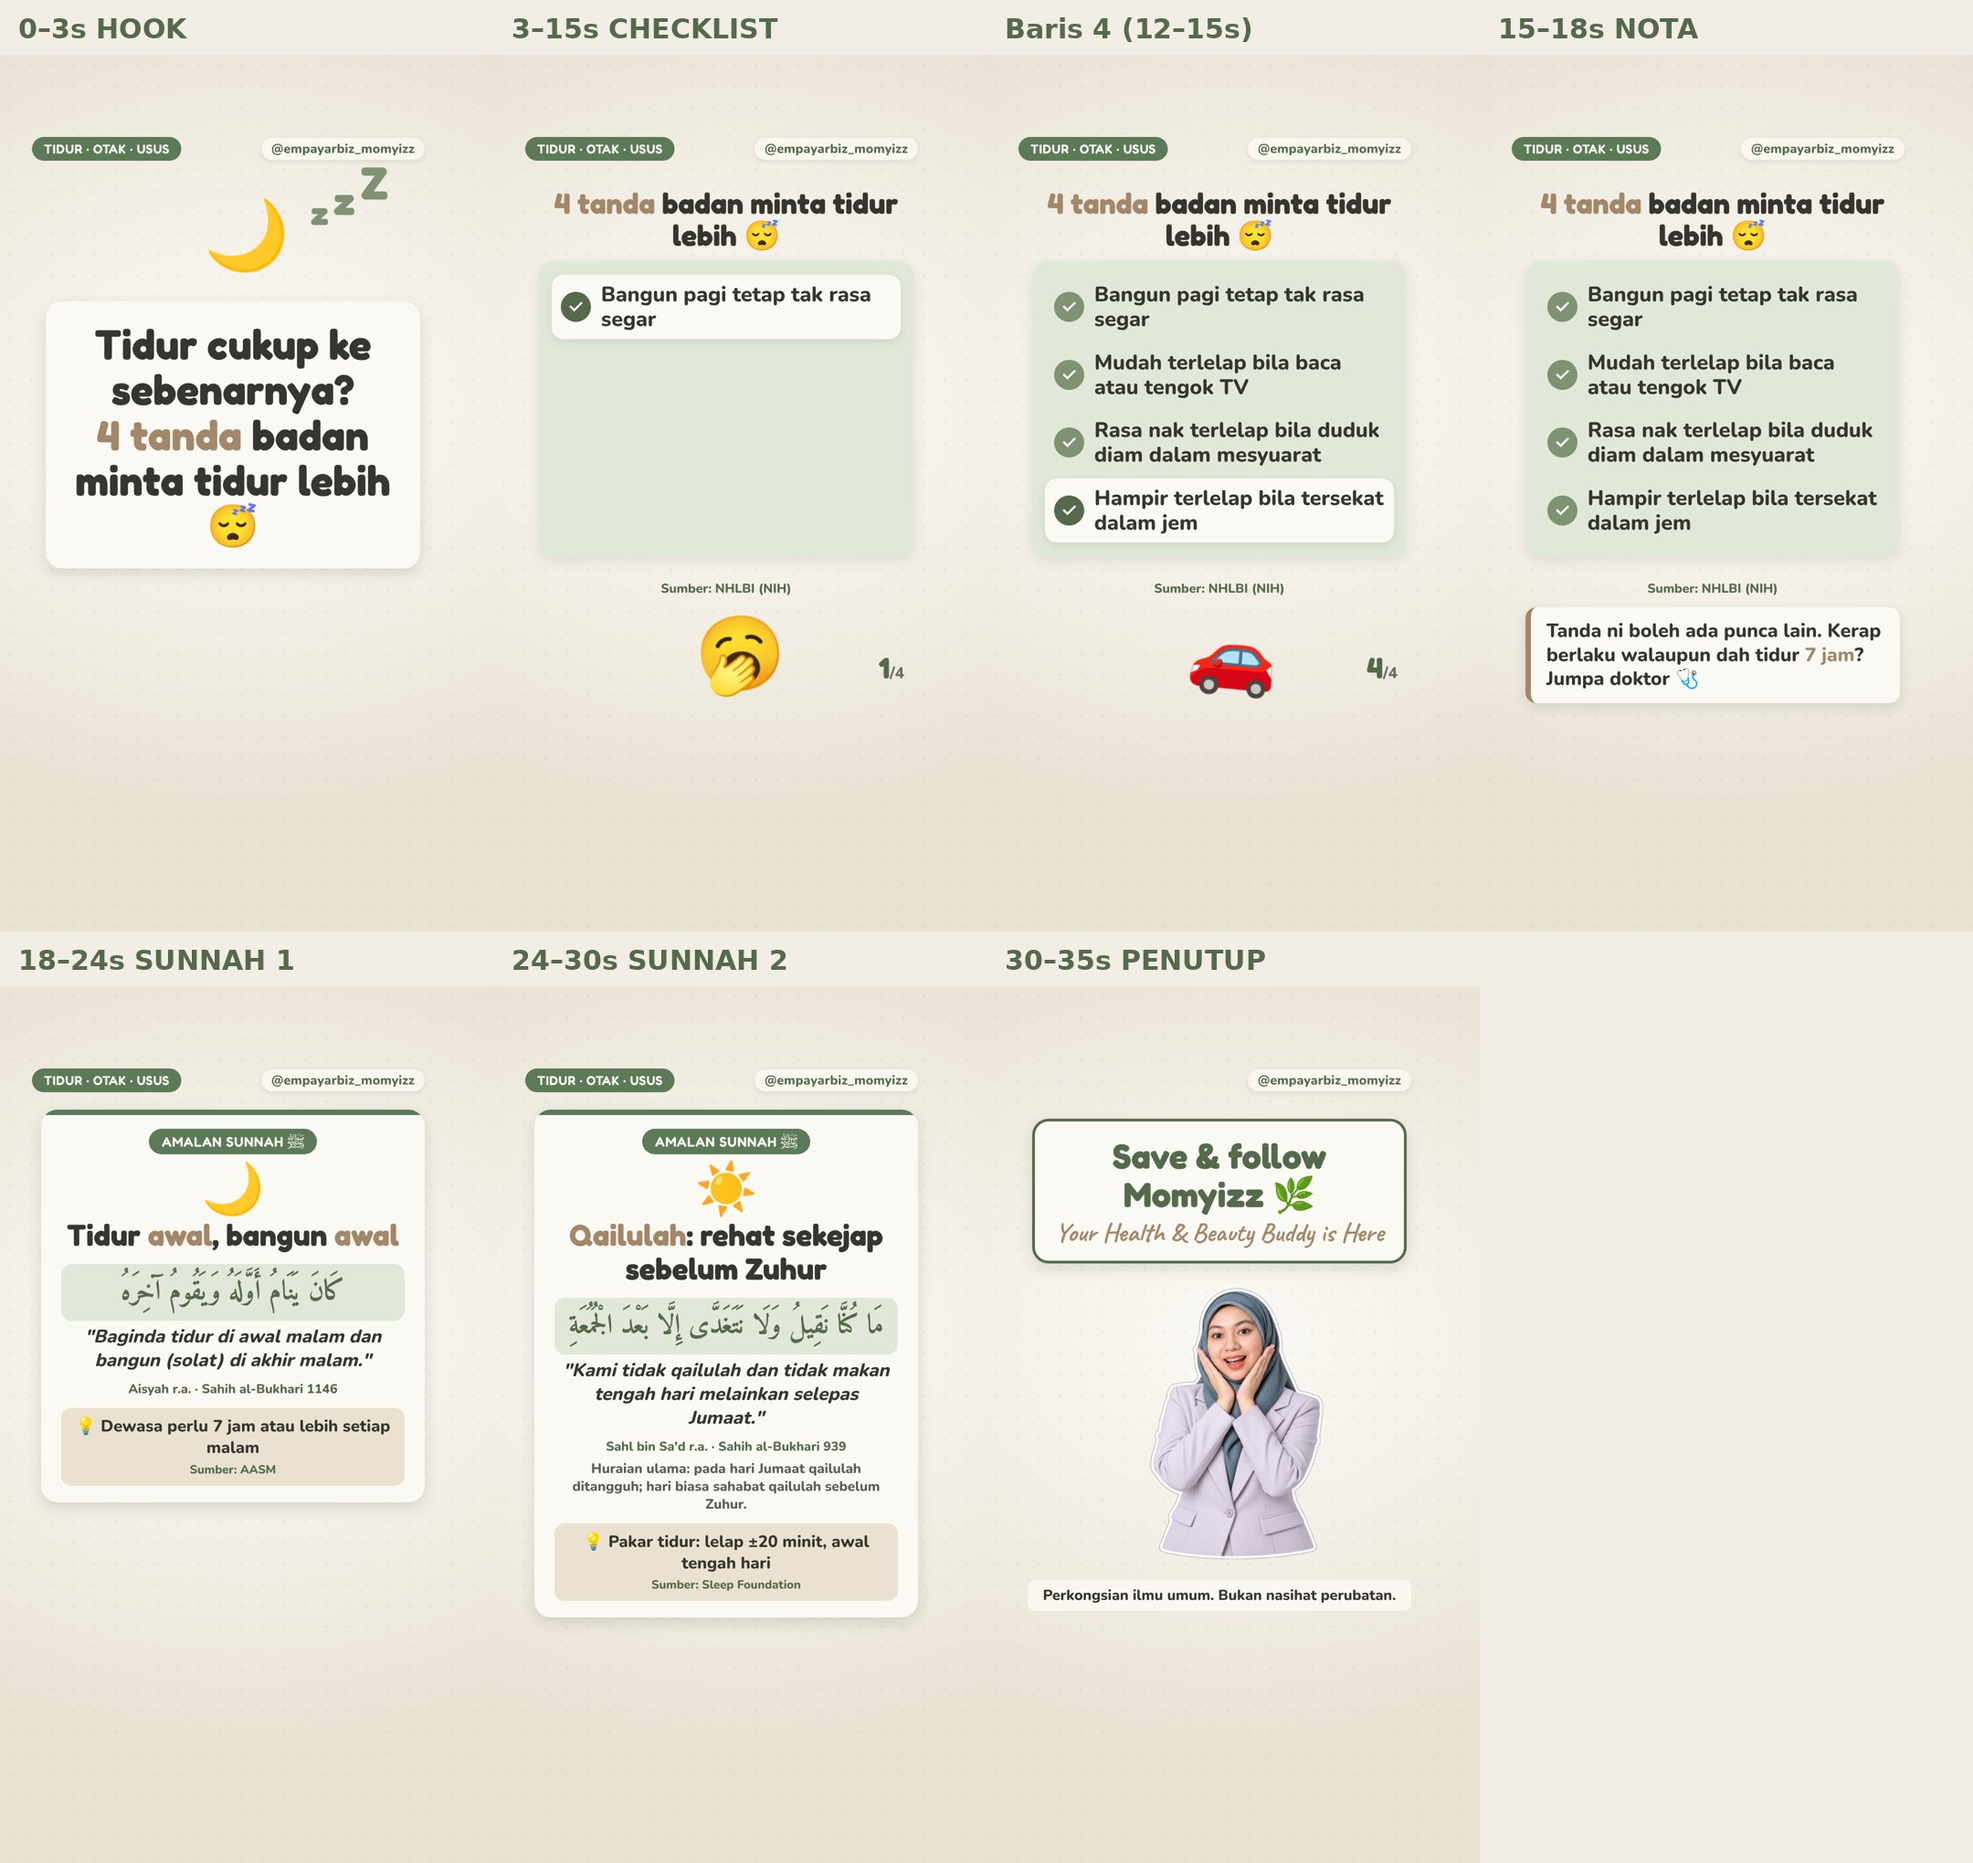
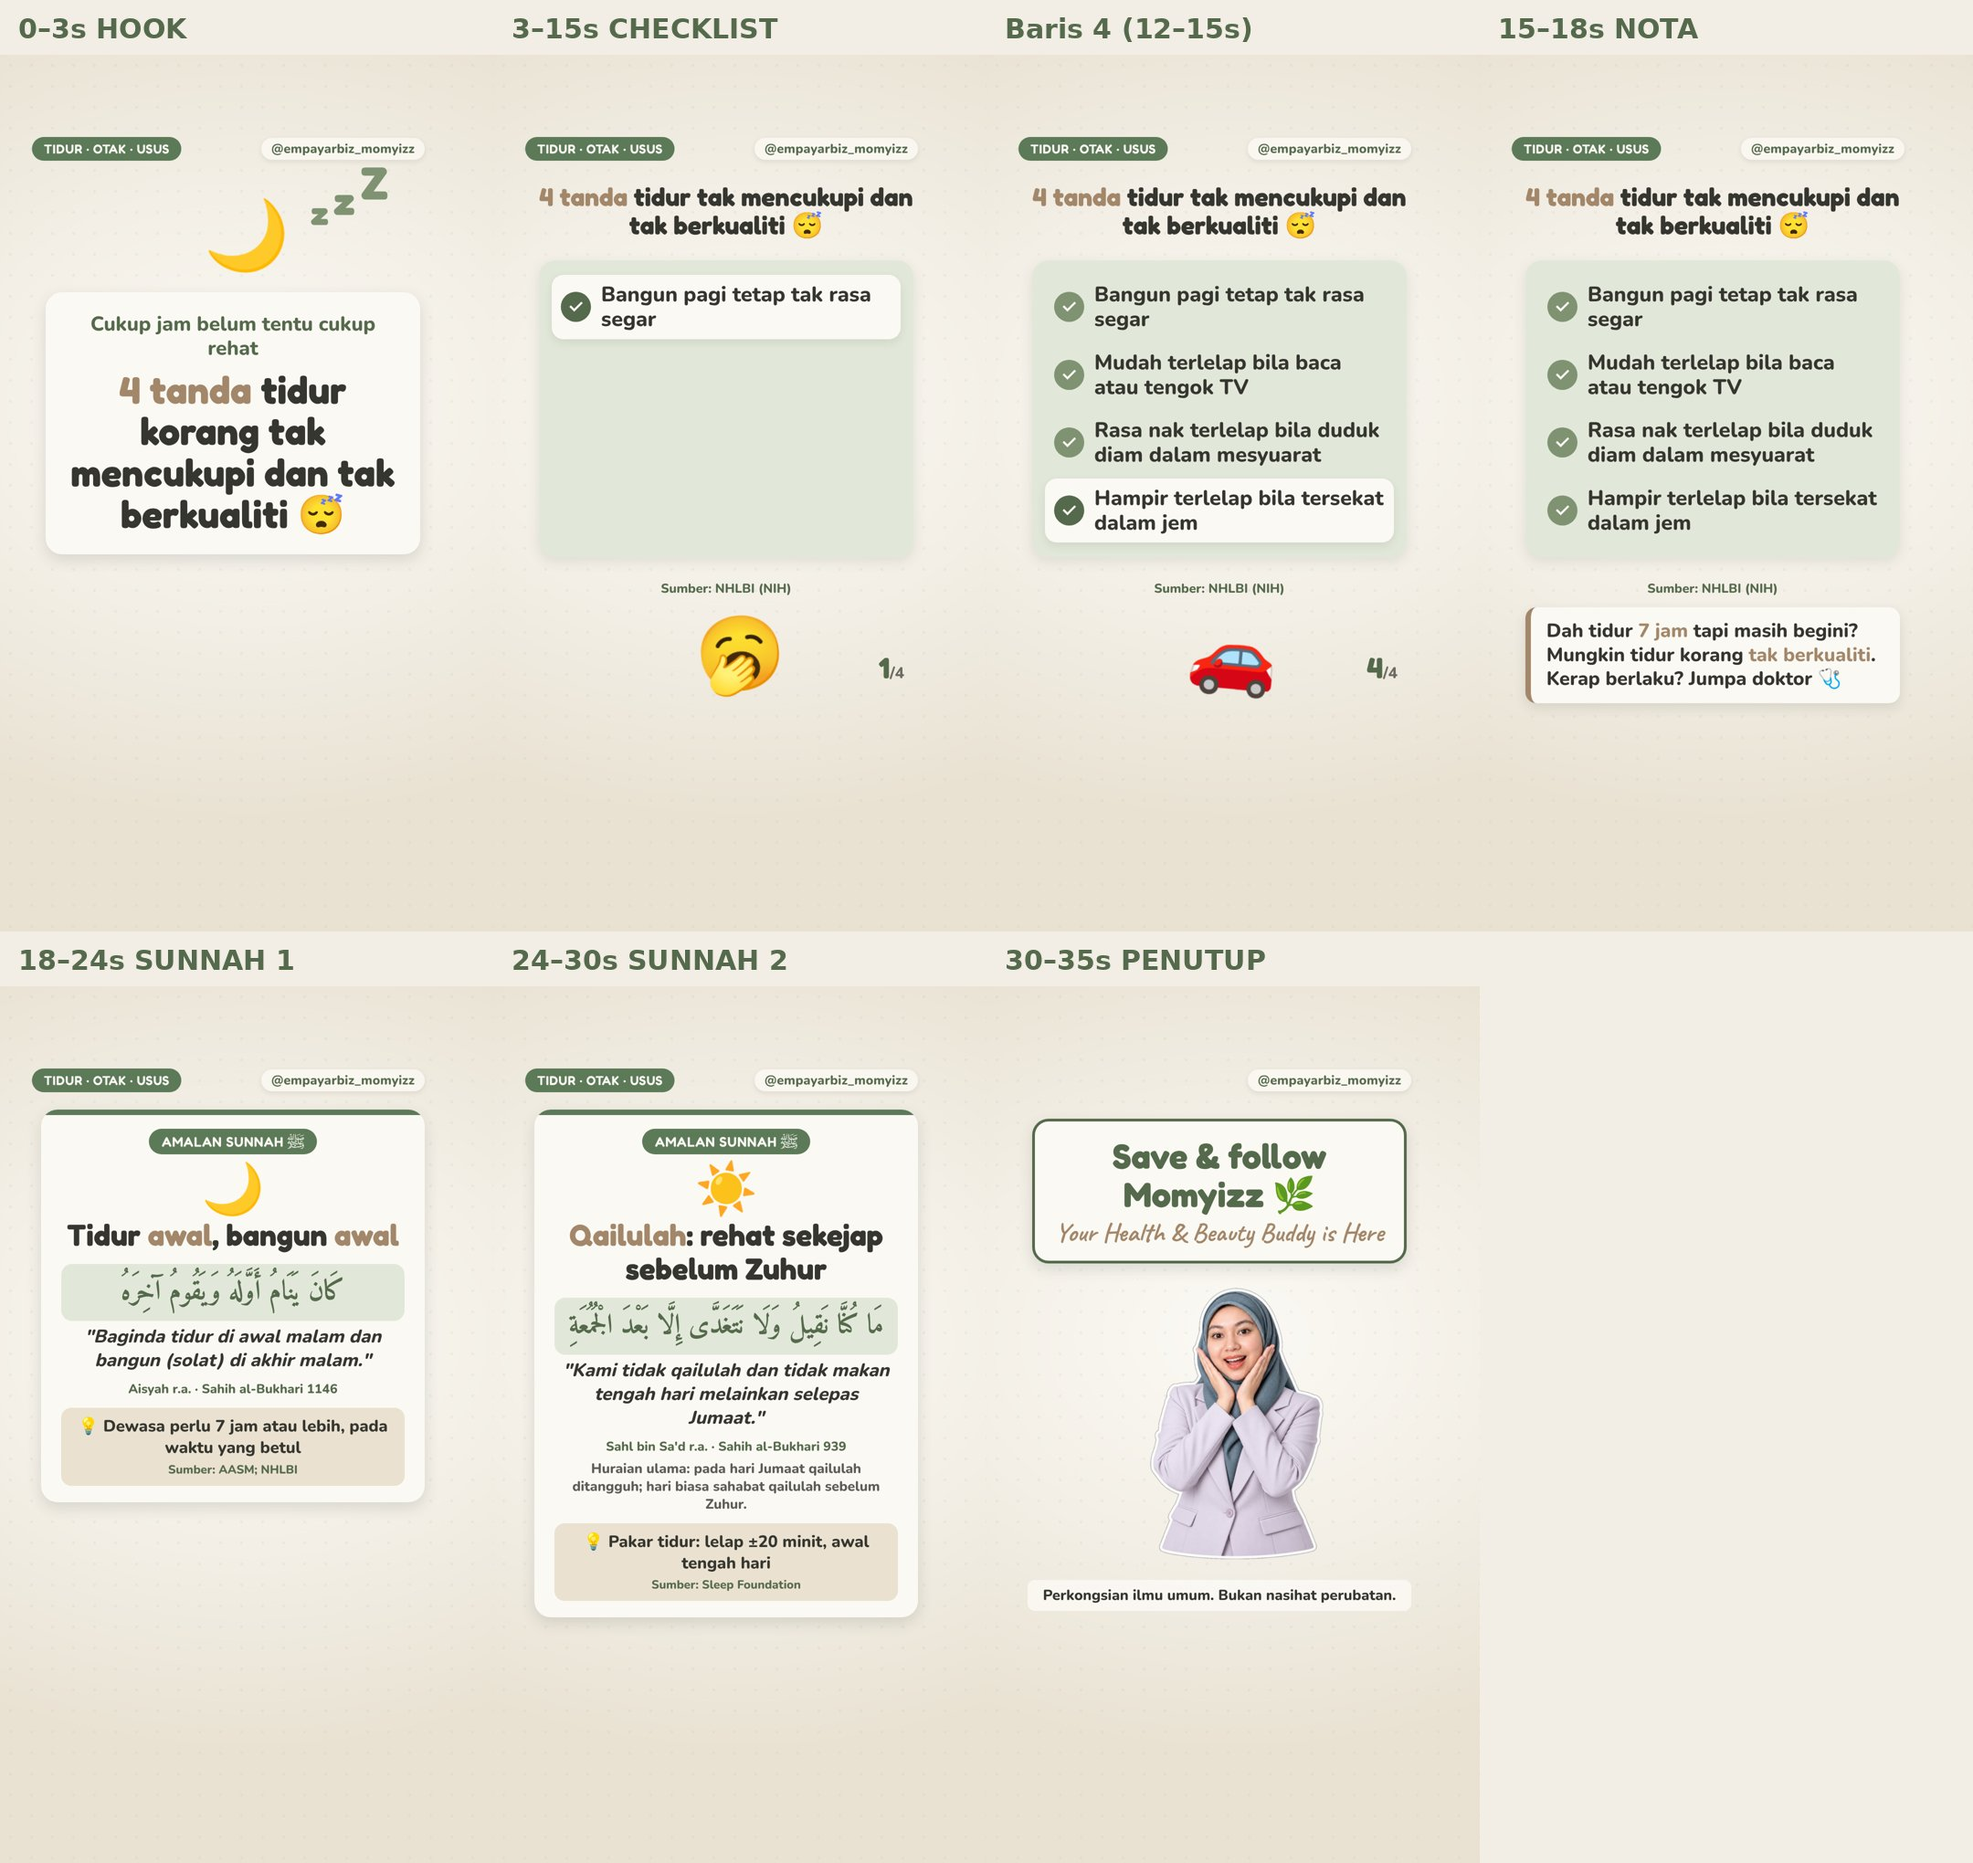
VIDEO_3D Hari 8: storyboard guna 'tak mencukupi dan tak berkualiti' (definisi NHLBI)
Claude-Session: https://claude.ai/code/session_012zDhAgXTakPN52s5L2UMwd

diff --git a/VIDEO_3D/hari08-tanda-tidur.html b/VIDEO_3D/hari08-tanda-tidur.html
@@ -13,11 +13,12 @@ html,body{width:1080px;height:1920px;overflow:hidden;background:var(--krim)}
 .dots{position:absolute;inset:0;background-image:radial-gradient(rgba(127,147,115,.13) 3px,transparent 3.5px);background-size:46px 46px;opacity:.6}
 .el{position:absolute;opacity:0;will-change:transform,opacity}
 .pil{height:52px;padding:0 26px;border-radius:26px;background:var(--kesihatan);color:var(--kertas);font:600 28px/52px 'Fredoka';letter-spacing:.04em}
-.hook{left:100px;width:820px;padding:44px 44px;background:var(--kertas);border-radius:36px;box-shadow:0 12px 32px rgba(53,54,47,.14);font:700 92px/1.08 'Fredoka';text-align:center}
+.hook{left:100px;width:820px;padding:44px 44px;background:var(--kertas);border-radius:36px;box-shadow:0 12px 32px rgba(53,54,47,.14);font:700 84px/1.08 'Fredoka';text-align:center}
 .hook b{color:var(--kayu);font-weight:700;white-space:nowrap}
+.hook small{display:block;font:800 44px/1.2 'Nunito';color:var(--sage-gelap);margin-bottom:18px}
 .moon{font-size:150px;line-height:1;text-align:center;width:300px;left:390px}
 .zz{font:700 72px/1 'Fredoka';color:var(--sage)}
-.title{left:100px;width:820px;text-align:center;font:700 64px/1.1 'Fredoka'}
+.title{left:90px;width:840px;text-align:center;font:700 56px/1.1 'Fredoka'}
 .title b{color:var(--kayu)}
 .check{left:100px;width:820px;background:var(--sage-lembut);border-radius:36px;padding:24px 28px;box-shadow:0 10px 28px rgba(53,54,47,.10)}
 .row{display:flex;align-items:center;gap:22px;font:800 46px/1.18 'Nunito';margin:8px 0;padding:16px 20px;border-radius:26px;opacity:0}
@@ -63,10 +64,10 @@ html,body{width:1080px;height:1920px;overflow:hidden;background:var(--krim)}
   <div class="el zz" id="z1" style="left:680px;top:330px">z</div>
   <div class="el zz" id="z2" style="left:730px;top:290px;font-size:86px">z</div>
   <div class="el zz" id="z3" style="left:790px;top:240px;font-size:100px">Z</div>
-  <div class="el hook" id="hook" style="top:540px">Tidur cukup ke sebenarnya? <b>4 tanda</b> badan minta tidur lebih 😴</div>
+  <div class="el hook" id="hook" style="top:520px"><small>Cukup jam belum tentu cukup rehat</small><b>4 tanda</b> tidur korang tak mencukupi dan tak berkualiti 😴</div>
 
   <!-- 3–18s CHECKLIST + NOTA -->
-  <div class="el title" id="title" style="top:290px"><b>4 tanda</b> badan minta tidur lebih 😴</div>
+  <div class="el title" id="title" style="top:280px"><b>4 tanda</b> tidur tak mencukupi dan tak berkualiti 😴</div>
   <div class="el check" id="check" style="top:450px">
     <div class="row" id="r1"><div class="tick">✓</div><div>Bangun pagi tetap tak rasa segar</div></div>
     <div class="row" id="r2"><div class="tick">✓</div><div>Mudah terlelap bila baca atau tengok TV</div></div>
@@ -79,7 +80,7 @@ html,body{width:1080px;height:1920px;overflow:hidden;background:var(--krim)}
   <div class="el ico" id="i3" style="top:1230px">💼</div>
   <div class="el ico" id="i4" style="top:1230px">🚗</div>
   <div class="el count" id="count" style="top:1310px">1<small>/4</small></div>
-  <div class="el nota" id="nota" style="top:1210px">Tanda ni boleh ada punca lain. Kerap berlaku walaupun dah tidur <b>7 jam</b>? Jumpa doktor 🩺</div>
+  <div class="el nota" id="nota" style="top:1210px">Dah tidur <b>7 jam</b> tapi masih begini? Mungkin tidur korang <b>tak berkualiti</b>. Kerap berlaku? Jumpa doktor 🩺</div>
 
   <!-- 18–24s KAD SUNNAH 1 -->
   <div class="el sun" id="sun1" style="top:270px"><div class="strip"></div><div class="in">
@@ -89,7 +90,7 @@ html,body{width:1080px;height:1920px;overflow:hidden;background:var(--krim)}
     <div class="ar" id="ar1">كَانَ يَنَامُ أَوَّلَهُ وَيَقُومُ آخِرَهُ</div>
     <div class="bm" id="bm1">"Baginda tidur di awal malam dan bangun (solat) di akhir malam."</div>
     <div class="ref" id="ref1">Aisyah r.a. · Sahih al-Bukhari 1146</div>
-    <div class="tip" id="tip1">💡 Dewasa perlu 7 jam atau lebih setiap malam<small>Sumber: AASM</small></div>
+    <div class="tip" id="tip1">💡 Dewasa perlu 7 jam atau lebih, pada waktu yang betul<small>Sumber: AASM; NHLBI</small></div>
   </div></div>
 
   <!-- 24–30s KAD SUNNAH 2 -->

diff --git a/VIDEO_3D/storyboard/hari08-tanda-tidur.md b/VIDEO_3D/storyboard/hari08-tanda-tidur.md
@@ -1,4 +1,4 @@
-# Storyboard — Hari 8 · 4 tanda badan minta tidur lebih + amalan sunnah (35 s)
+# Storyboard — Hari 8 · 4 tanda tidur tak mencukupi dan tak berkualiti + amalan sunnah (35 s)
 
 Status: **STORYBOARD, menunggu kelulusan pengguna.** Video belum dirender.
 Fail babak: `VIDEO_3D/hari08-tanda-tidur.html` · Gambar bingkai: `hari08-tanda-tidur.jpg`
@@ -9,14 +9,14 @@ Tanda nama **@empayarbiz_momyizz** penjuru kanan atas sepanjang video. Label pil
 
 | # | Masa | Komponen | Teks atas skrin | Visual / animasi |
 |---|---|---|---|---|
-| 1 | 0–3s | HOOK | Tidur cukup ke sebenarnya? **4 tanda** badan minta tidur lebih 😴 | Kotak Kertas pop; bulan 🌙 terapung, "zzz" naik |
-| 2 | 3–6s | CHECKLIST baris 1 | ✓ Bangun pagi tetap tak rasa segar | Tajuk kecil di atas, panel Sage masuk; baris luncur dari kiri; ikon 🥱; kaunter 1/4 |
+| 1 | 0–3s | HOOK | (kecil) Cukup jam belum tentu cukup rehat · **4 tanda** tidur korang tak mencukupi dan tak berkualiti 😴 | Kotak Kertas pop; bulan 🌙 terapung, "zzz" naik |
+| 2 | 3–6s | CHECKLIST baris 1 | ✓ Bangun pagi tetap tak rasa segar | Tajuk kecil "4 tanda tidur tak mencukupi dan tak berkualiti 😴" di atas, panel Sage masuk; baris luncur dari kiri; ikon 🥱; kaunter 1/4 |
 | 3 | 6–9s | CHECKLIST baris 2 | ✓ Mudah terlelap bila baca atau tengok TV | Ikon 📺; kaunter 2/4; baris aktif berlatar Kertas |
 | 4 | 9–12s | CHECKLIST baris 3 | ✓ Rasa nak terlelap bila duduk diam dalam mesyuarat | Ikon 💼; kaunter 3/4 |
 | 5 | 12–15s | CHECKLIST baris 4 | ✓ Hampir terlelap bila tersekat dalam jem | Ikon 🚗; kaunter 4/4 |
 | — | 3–18s | SUMBER | Sumber: NHLBI (NIH) | Teks kecil bawah panel |
-| 6 | 15–18s | NOTA | Tanda ni boleh ada punca lain. Kerap berlaku walaupun dah tidur **7 jam**? Jumpa doktor 🩺 | Kad Kertas, jalur kiri Kayu, naik dari bawah; checklist kekal |
-| 7 | 18–24s | KAD SUNNAH 1 🌙 | AMALAN SUNNAH ﷺ · **Tidur awal, bangun awal** · كَانَ يَنَامُ أَوَّلَهُ وَيَقُومُ آخِرَهُ · "Baginda tidur di awal malam dan bangun (solat) di akhir malam." · Aisyah r.a. · Sahih al-Bukhari 1146 · 💡 Dewasa perlu 7 jam atau lebih setiap malam (AASM) | Kad Kertas jalur Sage, naik dari bawah |
+| 6 | 15–18s | NOTA | Dah tidur **7 jam** tapi masih begini? Mungkin tidur korang **tak berkualiti**. Kerap berlaku? Jumpa doktor 🩺 | Kad Kertas, jalur kiri Kayu, naik dari bawah; checklist kekal |
+| 7 | 18–24s | KAD SUNNAH 1 🌙 | AMALAN SUNNAH ﷺ · **Tidur awal, bangun awal** · كَانَ يَنَامُ أَوَّلَهُ وَيَقُومُ آخِرَهُ · "Baginda tidur di awal malam dan bangun (solat) di akhir malam." · Aisyah r.a. · Sahih al-Bukhari 1146 · 💡 Dewasa perlu 7 jam atau lebih, pada waktu yang betul (AASM; NHLBI) | Kad Kertas jalur Sage, naik dari bawah |
 | 8 | 24–30s | KAD SUNNAH 2 ☀ | AMALAN SUNNAH ﷺ · **Qailulah: rehat sekejap sebelum Zuhur** · مَا كُنَّا نَقِيلُ وَلَا نَتَغَدَّى إِلَّا بَعْدَ الْجُمُعَةِ · "Kami tidak qailulah dan tidak makan tengah hari melainkan selepas Jumaat." · Sahl bin Sa'd r.a. · Sahih al-Bukhari 939 · Huraian ulama: pada hari Jumaat qailulah ditangguh; hari biasa sahabat qailulah sebelum Zuhur. · 💡 Pakar tidur: lelap ±20 minit, awal tengah hari (Sleep Foundation) | Sama seperti kad 1 |
 | 9 | 30–35s | PENUTUP + PENAFIAN | Save & follow Momyizz 🌿 / Your Health & Beauty Buddy is Here · Perkongsian ilmu umum. Bukan nasihat perubatan. | Kotak bersempadan Sage turun; sticker pop + goyang; penafian 5 s |
 
@@ -24,6 +24,7 @@ Tanda nama **@empayarbiz_momyizz** penjuru kanan atas sepanjang video. Label pil
 | Fakta | Sumber | Status |
 |---|---|---|
 | 4 tanda (rasa nak terlelap bila duduk diam; bangun tak segar) | NHLBI, *Sleep Deprivation – Health Effects*: "You might be sleep deficient if you often feel like you could doze off while…"; "You may not feel refreshed and alert when you wake up." | 🟢 Disahkan (dibaca 20 Nov 2026) |
+| "Tak mencukupi dan tak berkualiti"; "pada waktu yang betul" | NHLBI, *What Are Sleep Deprivation and Deficiency?*: sleep deficiency = tak cukup tidur, "You sleep at the wrong time of day", "You don't sleep well or get all the different types of sleep your body needs", atau gangguan tidur | 🟢 Disahkan (dibaca 20 Nov 2026) |
 | Dewasa 7 jam+ | AASM/SRS (2015), sudah dalam `KALENDAR_PENULISAN/PODCAST_SEMAKAN.md` | 🟢 |
 | Nap ±20 minit, awal tengah hari | Sleep Foundation, *Napping*: "the best nap length for adults is about 20 minutes and no longer than 30 minutes"; "the best time to take a nap is either just before or during the post-lunch dip" | 🟢 Disahkan (dibaca 20 Nov 2026) |
 | Hadis Aisyah r.a. | Sahih al-Bukhari 1146 (Kitab Tahajjud). Matan Arab disemak dengan salinan terbuka Sahih al-Bukhari | 🟢 Sahih |

diff --git a/VIDEO_3D/README.md b/VIDEO_3D/README.md
@@ -6,7 +6,7 @@ Gaya ikut `TEMPLATES/MOTION_GRAPHICS_KIT/` (palet, font, safe zone) dan peratura
 | Fail | Isi |
 |---|---|
 | `hari07-span.html` | Hari 7, span dapur (57 s): span lama → kajian 2017 → span baharu bertarikh → cairkan Dish Drops dalam botol picit 1:5 → besen berbuih → produk + CTA |
-| `hari08-tanda-tidur.html` | Hari 8, motion grafik tips (35 s): hook → 4 tanda badan minta tidur lebih (NHLBI) → nota punca lain → 2 kad sunnah (Arab + BM) → Save & follow + sticker + penafian. Storyboard: `storyboard/hari08-tanda-tidur.md` |
+| `hari08-tanda-tidur.html` | Hari 8, motion grafik tips (35 s): hook → 4 tanda tidur tak mencukupi dan tak berkualiti (NHLBI) → nota kualiti tidur → 2 kad sunnah (Arab + BM) → Save & follow + sticker + penafian. Storyboard: `storyboard/hari08-tanda-tidur.md` |
 | `render.js` | Render HTML ke MP4 (1080×1920, 30 fps, H.264, audio senyap) |
 | `fonts/`, `fonts_local.css` | Fredoka, Nunito, Caveat (Google Fonts, lesen OFL) disimpan setempat |
 
